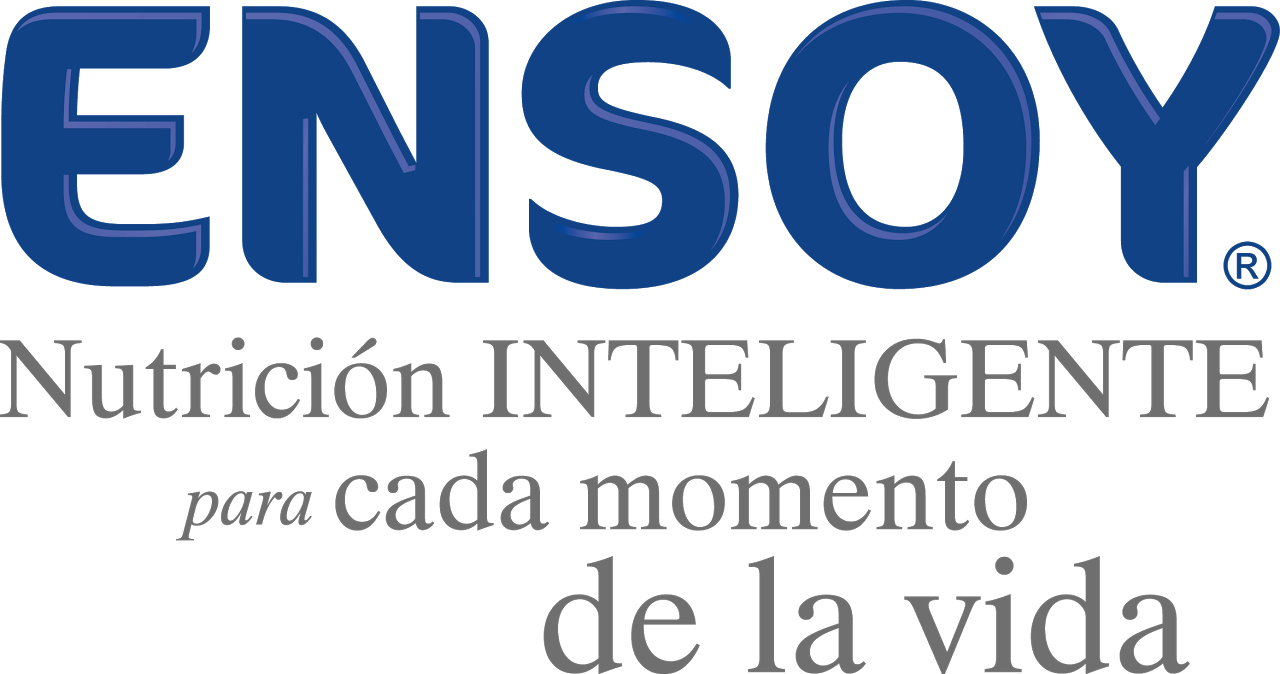
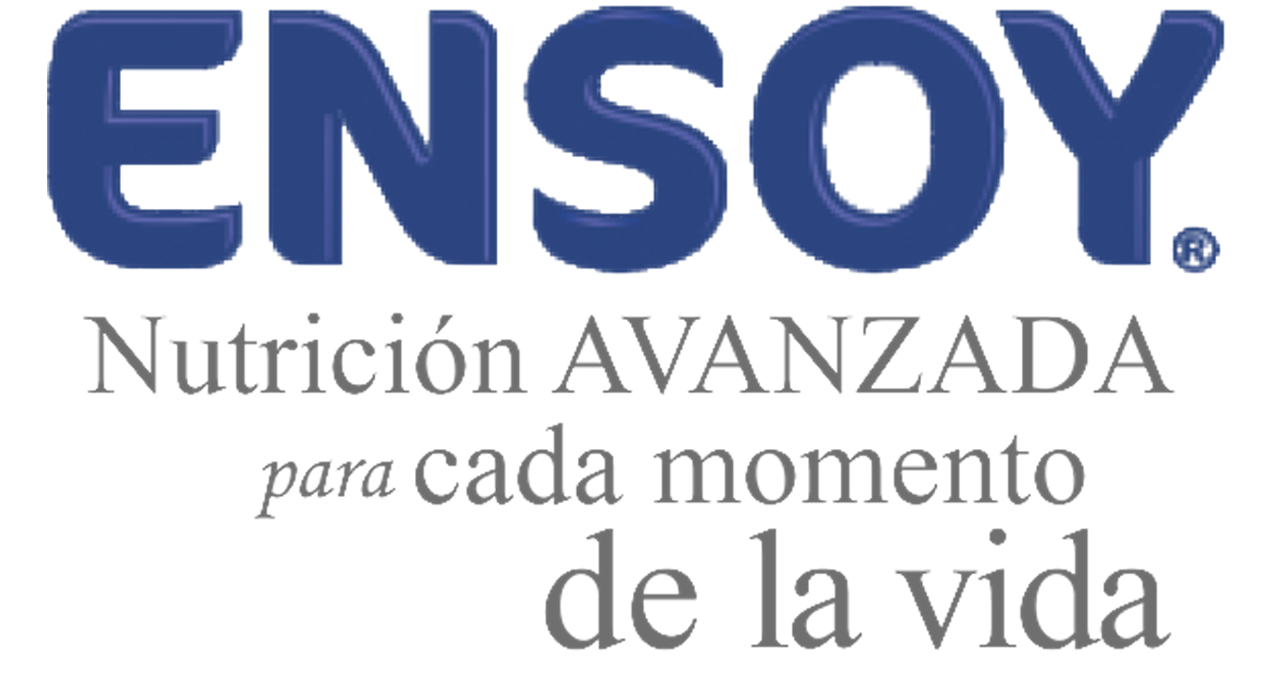
nuevo splash iconos

diff --git a/www/templates/detalles.html b/www/templates/detalles.html
@@ -2,7 +2,7 @@
     <ion-content>
 	    <div class="superior-productos">
 	       <img class="home-icon-1" src="img/epd-icon.png">
-	       <h4>Nutricion inteligente</h4>
+	       <h4>Nutricion avanzada</h4>
 	       <a ng-href="#/productos" class="home-superior-a" target="_self"><img class="home-icon" src="img/bac-icon.png"></a>
 	       <a ng-href="#" class="home-superior-a"><img class="home-icon" src="img/home-icon.png"></a>
         </div>

diff --git a/www/templates/plan.html b/www/templates/plan.html
@@ -2,7 +2,7 @@
     <ion-content>
 	    <div class="superior-productos">
 		    <img class="home-icon-1" src="img/epd-icon.png">
-		    <h4>Nutricion inteligente</h4>
+		    <h4>Nutricion avanzada</h4>
 	         <a ng-href="#/productos" class="home-superior-a" target="_self"><img class="home-icon" src="img/bac-icon.png"></a>
 	         <a ng-href="#" class="home-superior-a"><img class="home-icon" src="img/home-icon.png"></a>
 	    </div>

diff --git a/www/templates/productos.html b/www/templates/productos.html
@@ -2,7 +2,7 @@
     <ion-content>
     <div class="superior-productos">
 	    <img class="home-icon-1" src="img/epd-icon.png">
-	    <h4>Nutricion inteligente</h4>
+	    <h4>Nutricion avanzada</h4>
          <a href="#" class="home-superior-a"><img class="home-icon" src="img/bac-icon.png"></a>
          <a href="#" class="home-superior-a"><img class="home-icon" src="img/home-icon.png"></a>
     </div>
